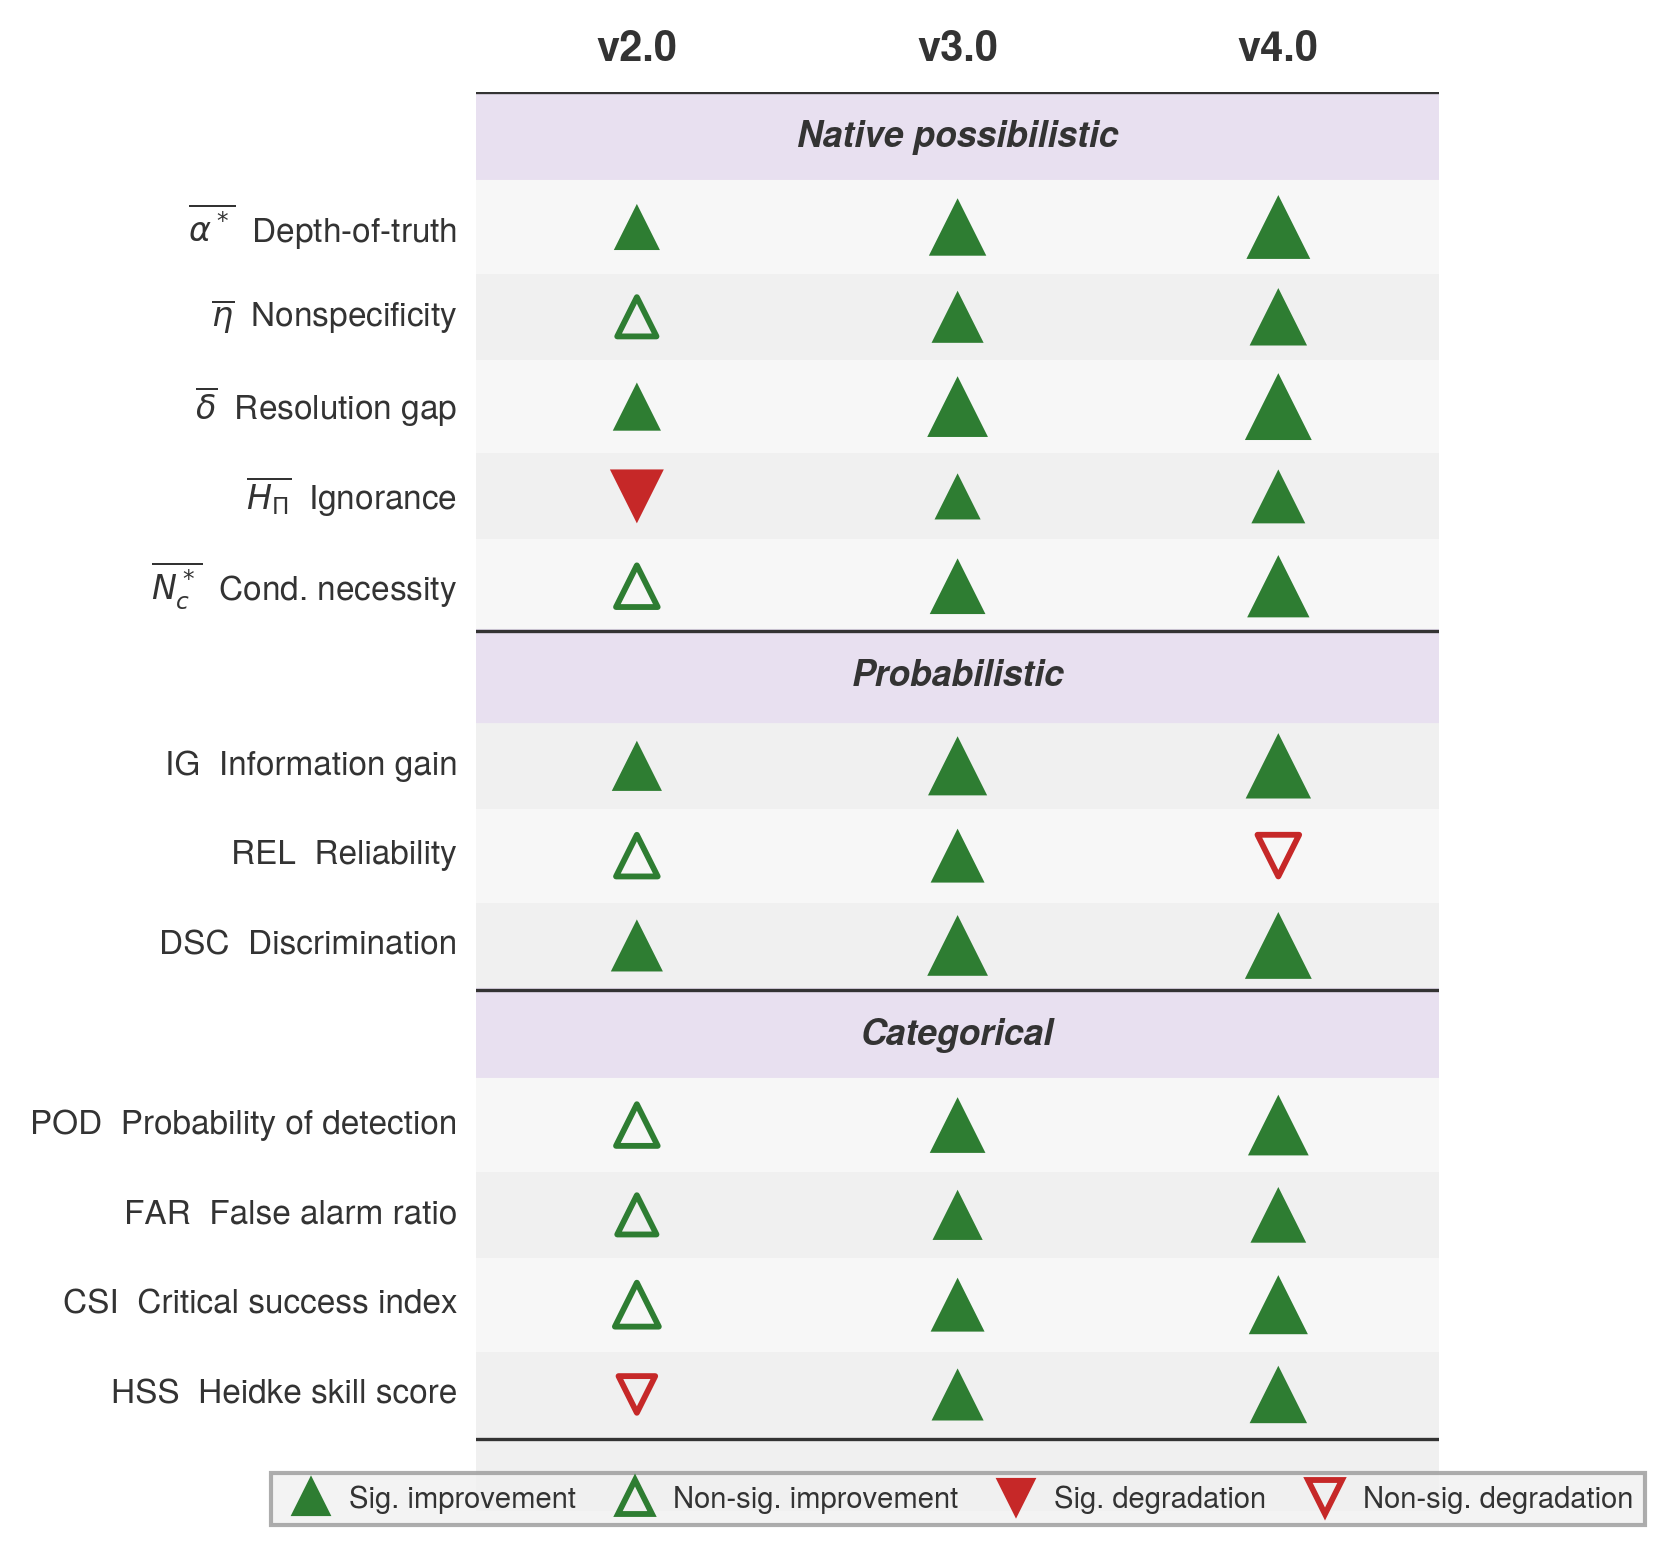
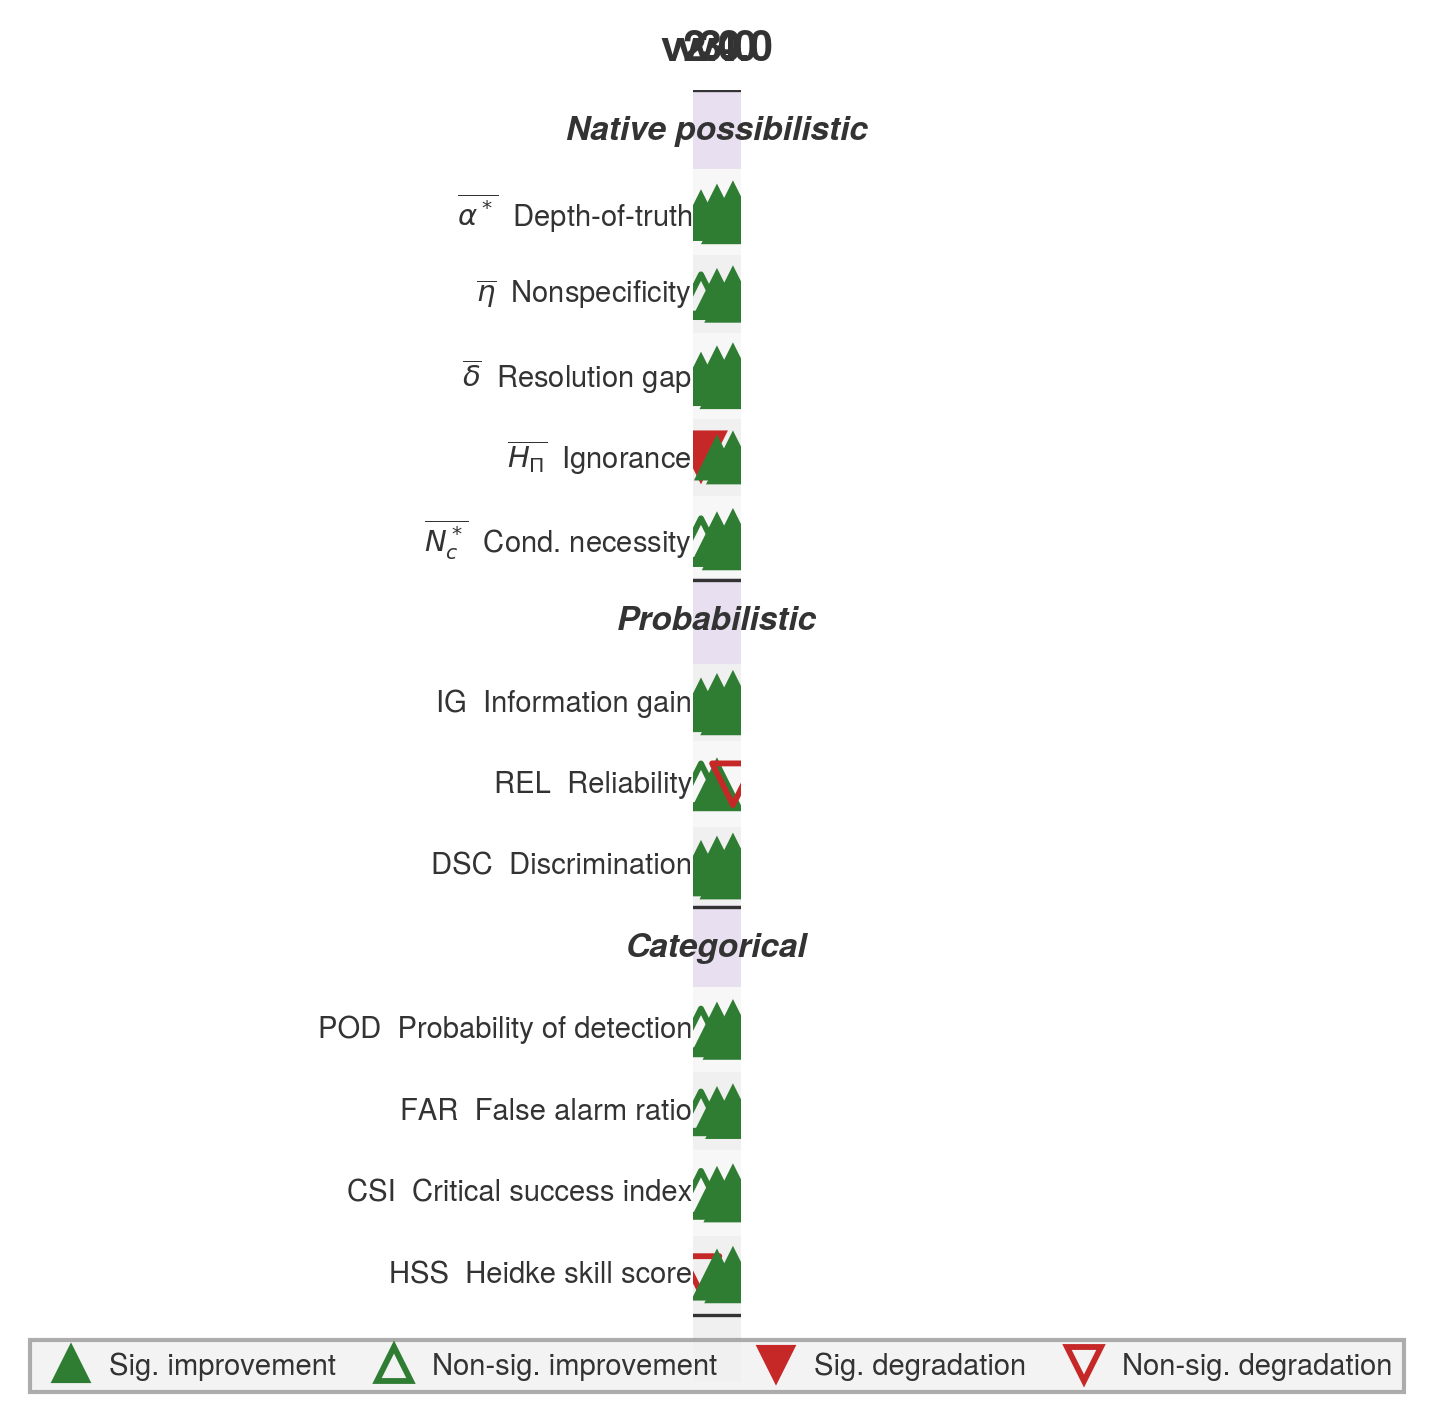
Horizontal lanes layout and single-column scorecard
Fig 7: rewritten as three parallel columns with square boxes and
section references — now figure* at 0.85\textwidth.
Fig 8: shrunk to (3.8,5.5) for single-column fit, reduced font sizes,
now \figure with \columnwidth.
LaTeX figure/figure* swaps in §5 to match.

diff --git a/scripts/fig_verification_lanes.py b/scripts/fig_verification_lanes.py
@@ -1,6 +1,6 @@
 """Figure 7 (PDF order): Three-lane verification summary schematic.
 
-Flowchart-style diagram showing the three complementary verification lanes:
+Horizontal parallel layout showing the three complementary verification lanes:
   Lane 1 — Categorical (POD, FAR, CSI, HSS) evaluates the mode-based forecast.
   Lane 2 — Probabilistic (IG via bridge) evaluates the converted probability.
   Lane 3 — Possibilistic (five-number scorecard) evaluates the native
@@ -8,14 +8,12 @@ Flowchart-style diagram showing the three complementary verification lanes:
 
 Lane 3 is highlighted in purple; others use lighter colours.
 """
-import numpy as np
 import matplotlib.pyplot as plt
-import matplotlib.patches as mpatches
 from matplotlib.patches import FancyBboxPatch, FancyArrowPatch
 
 from style import (
     apply_style, save_fig,
-    PURPLE, GREEN, LIGHT_GREY, DARK_GREY, MID_GREY,
+    PURPLE, GREEN, DARK_GREY, MID_GREY,
 )
 
 # Colours per lane
@@ -24,30 +22,25 @@ LANE_COLOURS = {
     2: "#90CAF9",   # light blue (probabilistic)
     3: PURPLE,      # purple (possibilistic — novel)
 }
-LANE_TEXT = {
-    1: "white",
-    2: "white",
-    3: "white",
-}
 
 
 def _box(ax, x, y, w, h, text, colour, text_colour="white",
          fontsize=9, fontweight="normal", alpha=1.0):
-    """Draw a rounded box with centred text."""
+    """Draw a square box with centred text."""
     box = FancyBboxPatch(
         (x - w / 2, y - h / 2), w, h,
-        boxstyle="round,pad=0.12",
+        boxstyle="square,pad=0.08",
         facecolor=colour, edgecolor=DARK_GREY,
         linewidth=0.8, alpha=alpha, zorder=3,
     )
     ax.add_patch(box)
     ax.text(x, y, text, ha="center", va="center",
             fontsize=fontsize, fontweight=fontweight,
-            color=text_colour, zorder=4)
+            color=text_colour, zorder=4, linespacing=1.3)
 
 
 def _arrow(ax, x0, y0, x1, y1, **kwargs):
-    """Draw a curved arrow between two points."""
+    """Draw an arrow between two points."""
     defaults = dict(arrowstyle="-|>", color=DARK_GREY, linewidth=1.0,
                     connectionstyle="arc3,rad=0.0", zorder=2)
     defaults.update(kwargs)
@@ -58,85 +51,82 @@ def _arrow(ax, x0, y0, x1, y1, **kwargs):
 def main():
     apply_style()
 
-    fig, ax = plt.subplots(figsize=(3.8, 7.0))
-    ax.set_xlim(0, 3.8)
-    ax.set_ylim(0, 7.0)
+    fig, ax = plt.subplots(figsize=(7.5, 4.0))
+    ax.set_xlim(0, 7.5)
+    ax.set_ylim(0, 4.0)
     ax.axis("off")
 
-    cx = 1.9   # centre x
-    bw = 3.2   # box width (wide boxes)
-    bw_s = 2.6  # box width (processing/metric boxes)
+    # Layout parameters
+    col_w = 2.0     # column width
+    col_gap = 0.25  # gap between columns
+    total_w = 3 * col_w + 2 * col_gap
+    x_start = (7.5 - total_w) / 2
+    col_xs = [x_start + col_w / 2 + i * (col_w + col_gap) for i in range(3)]
 
-    # ===== Top: forecast input =====
-    _box(ax, cx, 6.60, bw, 0.55,
-         "Possibilistic Forecast  " + r"$\pi(\omega)$",
-         DARK_GREY, fontsize=8, fontweight="bold")
+    bw_top = total_w  # top/bottom shared box width
+    bw_lane = col_w - 0.15
 
-    # --- Lane 1: Categorical (blue-grey) ---
-    y_hdr1 = 5.80
-    _arrow(ax, cx, 6.30, cx, y_hdr1 + 0.22)
-    _box(ax, cx, y_hdr1, bw, 0.40,
-         "Lane 1: Categorical",
-         LANE_COLOURS[1], fontsize=8, fontweight="bold")
-    y_proc1 = 5.30
-    _arrow(ax, cx, y_hdr1 - 0.22, cx, y_proc1 + 0.18)
-    _box(ax, cx, y_proc1, bw_s, 0.32,
-         r"Mode: $\hat{c} = \arg\max \pi$",
-         LANE_COLOURS[1], alpha=0.75, fontsize=7)
-    y_met1 = 4.88
-    _arrow(ax, cx, y_proc1 - 0.18, cx, y_met1 + 0.15)
-    _box(ax, cx, y_met1, bw_s, 0.28,
-         "POD, FAR, CSI, HSS",
-         LANE_COLOURS[1], alpha=0.75, fontsize=7)
+    # ===== Top: forecast input (spanning all columns) =====
+    top_cx = 7.5 / 2
+    _box(ax, top_cx, 3.60, bw_top, 0.42,
+         r"Possibilistic Forecast  $\pi(\omega)$",
+         DARK_GREY, fontsize=9.5, fontweight="bold")
 
-    # --- Lane 2: Probabilistic (light blue) ---
-    y_hdr2 = 4.30
-    _arrow(ax, cx, y_met1 - 0.16, cx, y_hdr2 + 0.22)
-    _box(ax, cx, y_hdr2, bw, 0.40,
-         "Lane 2: Probabilistic",
-         LANE_COLOURS[2], fontsize=8, fontweight="bold")
-    y_proc2 = 3.80
-    _arrow(ax, cx, y_hdr2 - 0.22, cx, y_proc2 + 0.18)
-    _box(ax, cx, y_proc2, bw_s, 0.32,
-         r"Bridge: $\pi \rightarrow p$",
-         LANE_COLOURS[2], alpha=0.75, fontsize=7)
-    y_met2 = 3.38
-    _arrow(ax, cx, y_proc2 - 0.18, cx, y_met2 + 0.15)
-    _box(ax, cx, y_met2, bw_s, 0.28,
-         "IG = DSC " + r"$-$" + " REL",
-         LANE_COLOURS[2], alpha=0.75, fontsize=7)
+    # Arrows from top to each lane header
+    for cx in col_xs:
+        _arrow(ax, cx, 3.36, cx, 3.02)
 
-    # --- Lane 3: Possibilistic (purple, highlighted) ---
-    y_hdr3 = 2.78
-    _arrow(ax, cx, y_met2 - 0.16, cx, y_hdr3 + 0.22)
-    _box(ax, cx, y_hdr3, bw, 0.40,
-         "Lane 3: Possibilistic",
-         LANE_COLOURS[3], fontsize=8, fontweight="bold")
-    y_proc3 = 2.28
-    _arrow(ax, cx, y_hdr3 - 0.22, cx, y_proc3 + 0.18)
-    _box(ax, cx, y_proc3, bw_s, 0.32,
-         r"Native $\pi(\omega)$ directly",
-         LANE_COLOURS[3], alpha=0.85, fontsize=7)
-    y_met3 = 1.86
-    _arrow(ax, cx, y_proc3 - 0.18, cx, y_met3 + 0.15)
-    _box(ax, cx, y_met3, bw_s, 0.28,
-         r"$\alpha^*, \eta, \delta, H_\Pi, N_c^*$",
-         LANE_COLOURS[3], alpha=0.85, fontsize=7)
+    # ===== Three parallel lanes =====
+    lanes = [
+        {
+            "name": "Categorical\n(§6)",
+            "colour": LANE_COLOURS[1],
+            "process": r"Mode: $\hat{c} = \arg\max \pi$",
+            "metrics": "POD, FAR,\nCSI, HSS",
+        },
+        {
+            "name": "Probabilistic\n(§3)",
+            "colour": LANE_COLOURS[2],
+            "process": r"Bridge: $\pi \rightarrow p$" + "\n(§3.1)",
+            "metrics": "IG = DSC\n" + r"$-$ REL  (§3.2)",
+        },
+        {
+            "name": "Possibilistic\n(§4)",
+            "colour": LANE_COLOURS[3],
+            "process": r"Native $\pi(\omega)$" + "\ndirectly",
+            "metrics": r"$\alpha^*, \eta, \delta,$" + "\n"
+                       + r"$H_\Pi, N_c^*$  (§4.2)",
+        },
+    ]
 
-    # ===== Observation box =====
-    y_obs = 1.20
-    _arrow(ax, cx, y_met3 - 0.16, cx, y_obs + 0.22,
-           arrowstyle="<|-", color=GREEN, linewidth=0.8)
-    _box(ax, cx, y_obs, bw, 0.40,
-         "Observation  " + r"$c_{\mathrm{obs}}$",
-         GREEN, fontsize=8, fontweight="bold")
+    for cx, lane in zip(col_xs, lanes):
+        # Header
+        y_hdr = 2.82
+        _box(ax, cx, y_hdr, bw_lane, 0.38,
+             lane["name"], lane["colour"],
+             fontsize=9, fontweight="bold")
 
-    # ===== Assessment footer =====
-    y_assess = 0.50
-    _arrow(ax, cx, y_obs - 0.22, cx, y_assess + 0.20)
-    _box(ax, cx, y_assess, bw, 0.38,
-         "Comprehensive Assessment",
-         DARK_GREY, fontsize=7.5, fontweight="bold")
+        # Arrow to processing
+        y_proc = 2.15
+        _arrow(ax, cx, y_hdr - 0.22, cx, y_proc + 0.18)
+        _box(ax, cx, y_proc, bw_lane, 0.32,
+             lane["process"], lane["colour"],
+             alpha=0.75, fontsize=8)
+
+        # Arrow to metrics
+        y_met = 1.50
+        _arrow(ax, cx, y_proc - 0.18, cx, y_met + 0.18)
+        _box(ax, cx, y_met, bw_lane, 0.32,
+             lane["metrics"], lane["colour"],
+             alpha=0.75, fontsize=8)
+
+        # Arrow down to bottom
+        _arrow(ax, cx, y_met - 0.18, cx, 0.92)
+
+    # ===== Bottom: observation + assessment (spanning all columns) =====
+    _box(ax, top_cx, 0.70, bw_top, 0.38,
+         r"Observation  $c_{\mathrm{obs}}$  $\rightarrow$  Assessment",
+         GREEN, fontsize=9, fontweight="bold")
 
     fig.tight_layout()
     save_fig(fig, "verification_lanes")

diff --git a/sections/06-tripartite-value.tex b/sections/06-tripartite-value.tex
@@ -168,9 +168,9 @@ Figure~\ref{fig:three_lanes_schematic} provides a visual summary of the
 three lanes, showing how the raw possibility distribution feeds into each
 verification pathway.
 
-\begin{figure}[!t]
+\begin{figure*}[!t]
 \centering
-\includegraphics[width=\columnwidth]{verification_lanes.png}
+\includegraphics[width=0.85\textwidth]{verification_lanes.png}
 \caption{Three-lane verification schematic.  A subnormal possibility
     distribution feeds three parallel verification pathways:
     \textbf{Lane~1} (categorical) evaluates the mode-based point
@@ -182,7 +182,7 @@ verification pathway.
     Each lane diagnoses failure modes invisible to
     the others (Table~\ref{tab:three_lanes}).}
 \label{fig:three_lanes_schematic}
-\end{figure}
+\end{figure*}
 
 In practice, a verification analyst would compile scorecard aggregates
 across a test sample, tracking changes between model versions or
@@ -202,9 +202,9 @@ pushed discrimination further at the cost of slight reliability
 degradation---a trade-off the three-lane view makes immediately visible
 but that no single metric could reveal.
 
-\begin{figure*}[b]
+\begin{figure}[t]
 \centering
-\includegraphics[width=0.80\textwidth]{scorecard_table.png}
+\includegraphics[width=\columnwidth]{scorecard_table.png}
 \caption{Verification scorecard for a hypothetical possibilistic
     forecasting system across three development versions, each compared
     to a v1.0 baseline.  Rows are grouped into three verification lanes:
@@ -219,6 +219,6 @@ but that no single metric could reveal.
     recalibrated uncertainty that the native possibilistic lane detects
     but the probabilistic lane may absorb.}
 \label{fig:scorecard_table}
-\end{figure*}
+\end{figure}
 
 \FloatBarrier

diff --git a/scripts/fig_scorecard_table.py b/scripts/fig_scorecard_table.py
@@ -91,7 +91,7 @@ def main():
     # ------------------------------------------------------------------ #
     min_s, max_s = 55, 280   # marker size range
 
-    fig, ax = plt.subplots(figsize=(7.0, 6.0))
+    fig, ax = plt.subplots(figsize=(3.8, 5.5))
 
     # y-axis: row 0 at top, extra padding at bottom for legend clearance
     ax.set_ylim(n_rows + 0.3, -0.5)
@@ -109,7 +109,7 @@ def main():
             # Centred lane label
             mid_x = (n_ver - 1) / 2.0
             ax.text(mid_x, r, label, ha="center", va="center",
-                    fontsize=8.5, fontweight="bold", fontstyle="italic",
+                    fontsize=8, fontweight="bold", fontstyle="italic",
                     color=DARK_GREY, zorder=4)
         else:
             # Alternating row shading (count only metric rows)
@@ -119,7 +119,7 @@ def main():
 
             # Row label (axes-fraction x, data y)
             ax.text(-0.02, r, label, transform=ytrans,
-                    ha="right", va="center", fontsize=8, color=DARK_GREY)
+                    ha="right", va="center", fontsize=7, color=DARK_GREY)
 
             # Triangle markers
             for j in range(n_ver):
@@ -172,7 +172,7 @@ def main():
               frameon=True, fancybox=False, edgecolor=MID_GREY,
               handletextpad=0.3, columnspacing=1.0)
 
-    fig.tight_layout(rect=[0.28, 0.09, 1.0, 0.97])
+    fig.tight_layout(rect=[0.32, 0.09, 1.0, 0.97])
     save_fig(fig, "scorecard_table")
 
 
